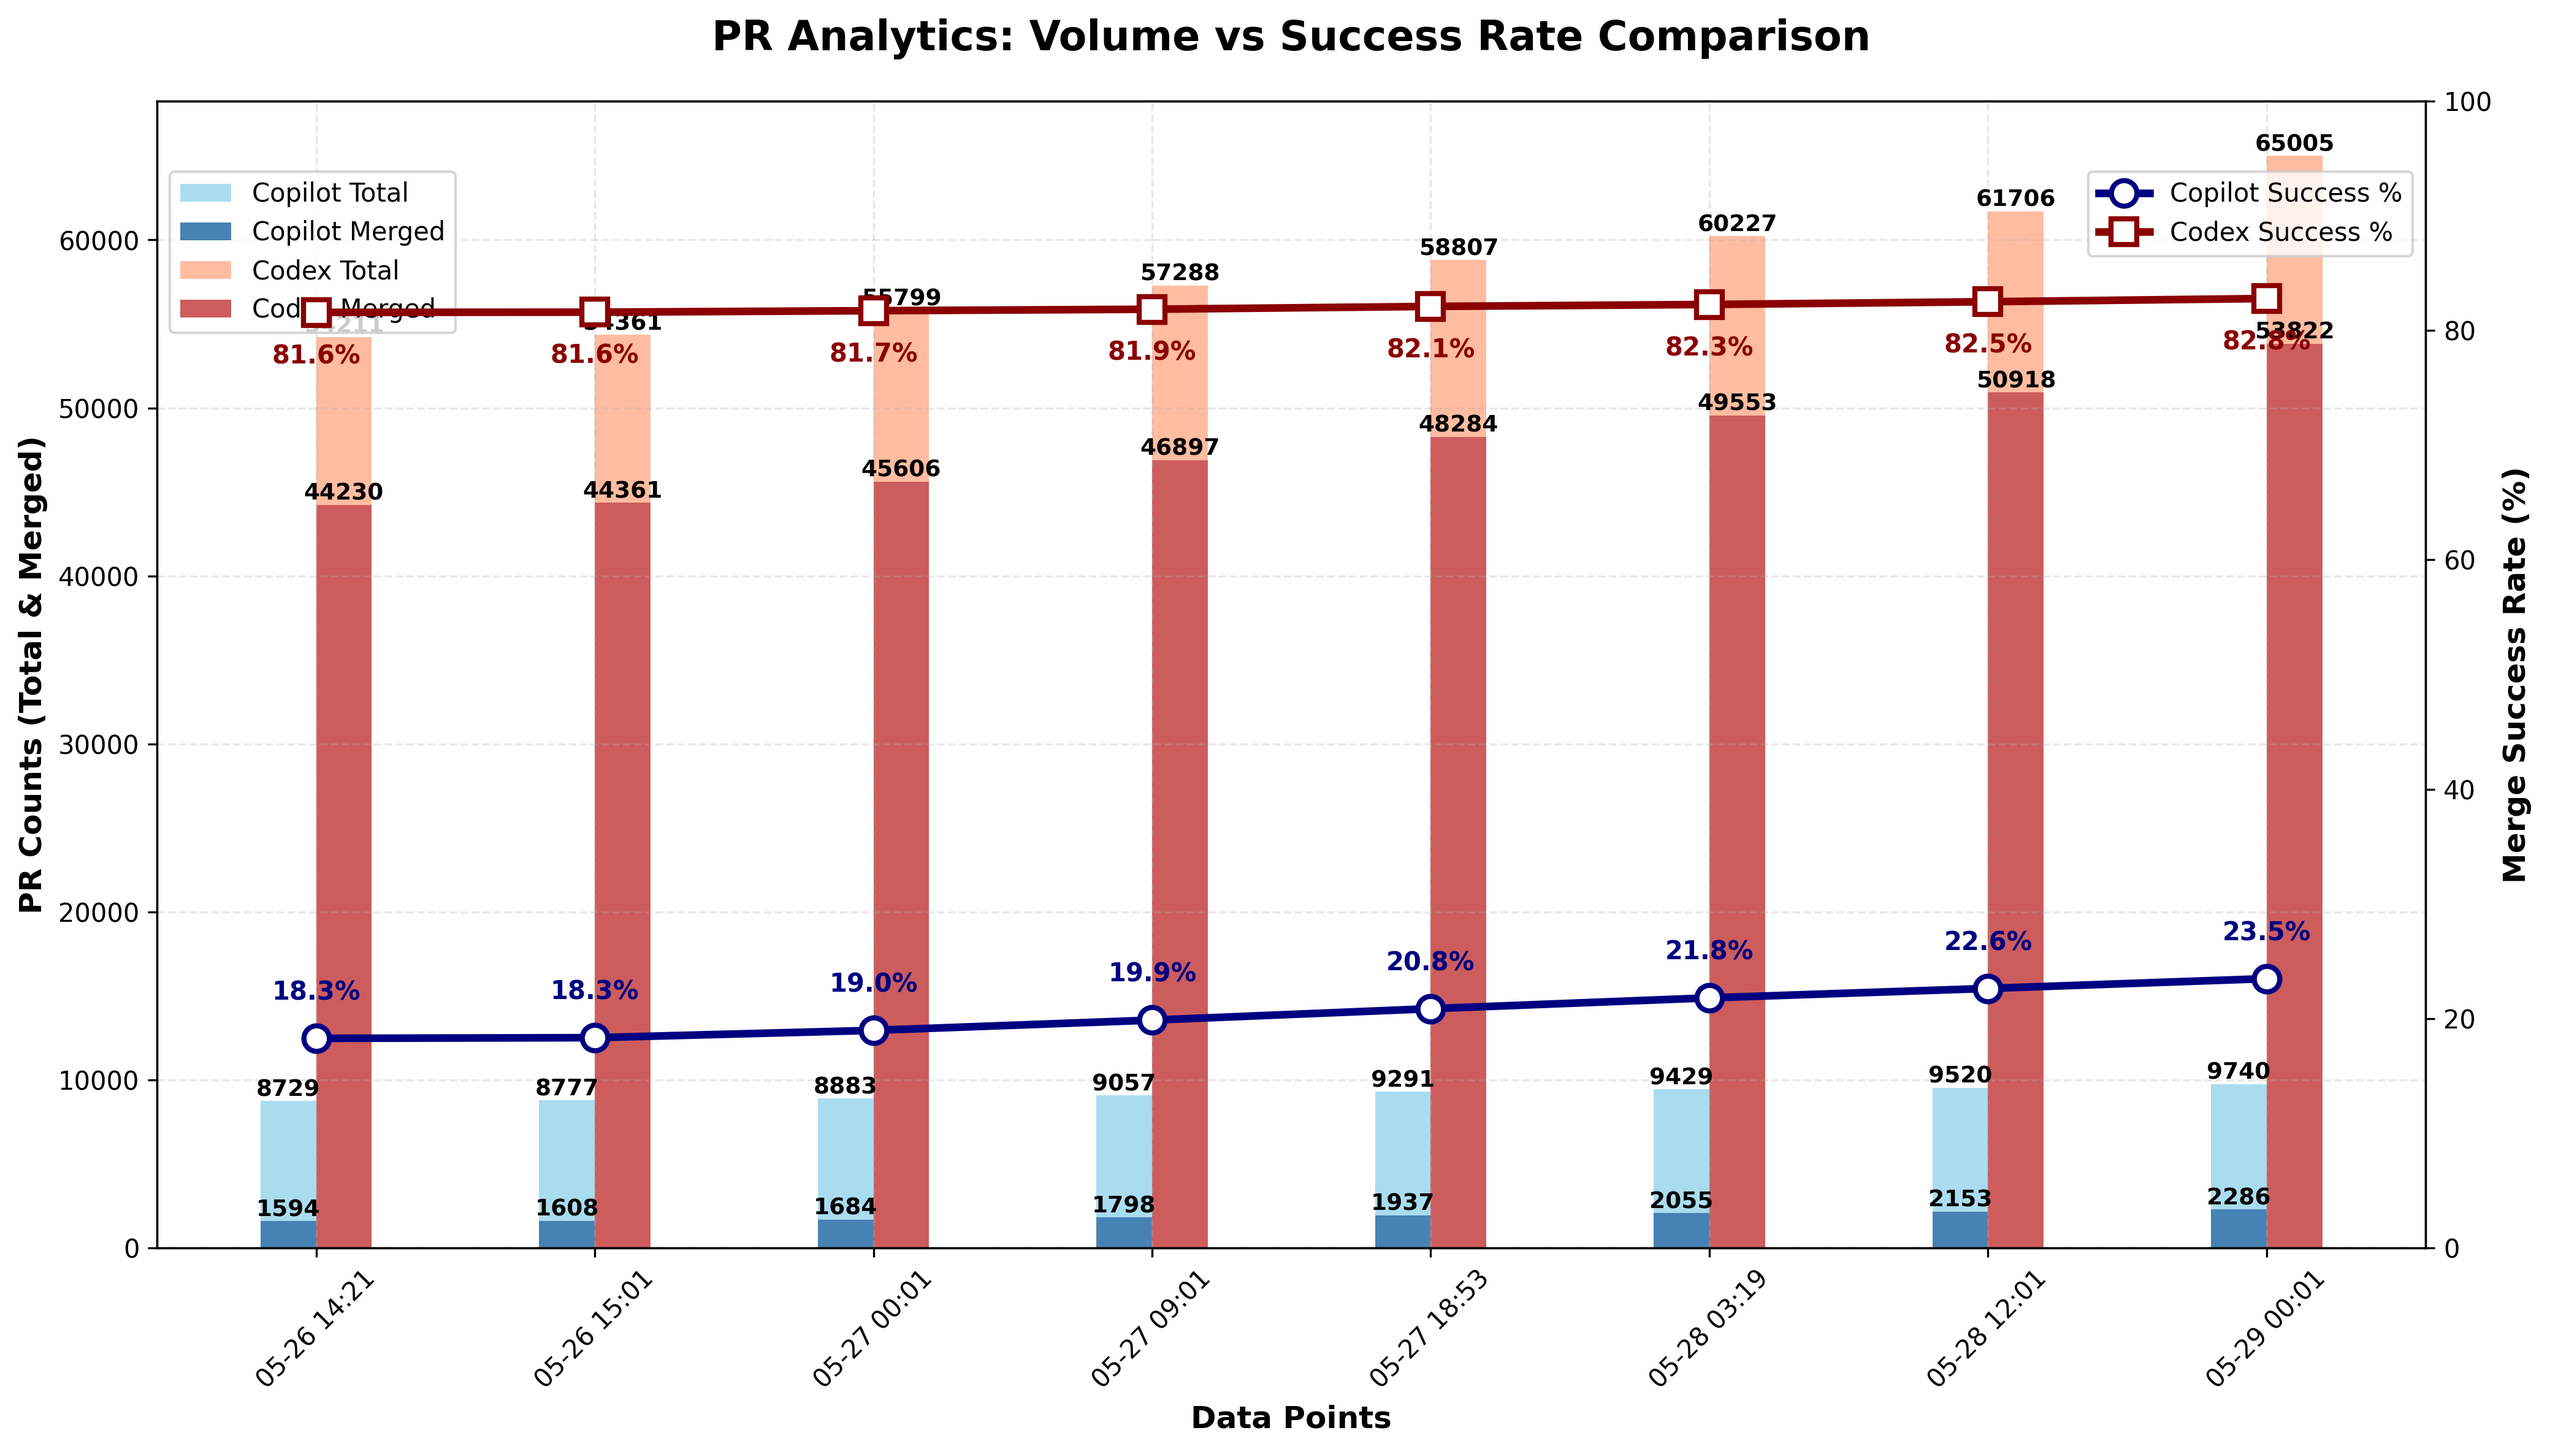
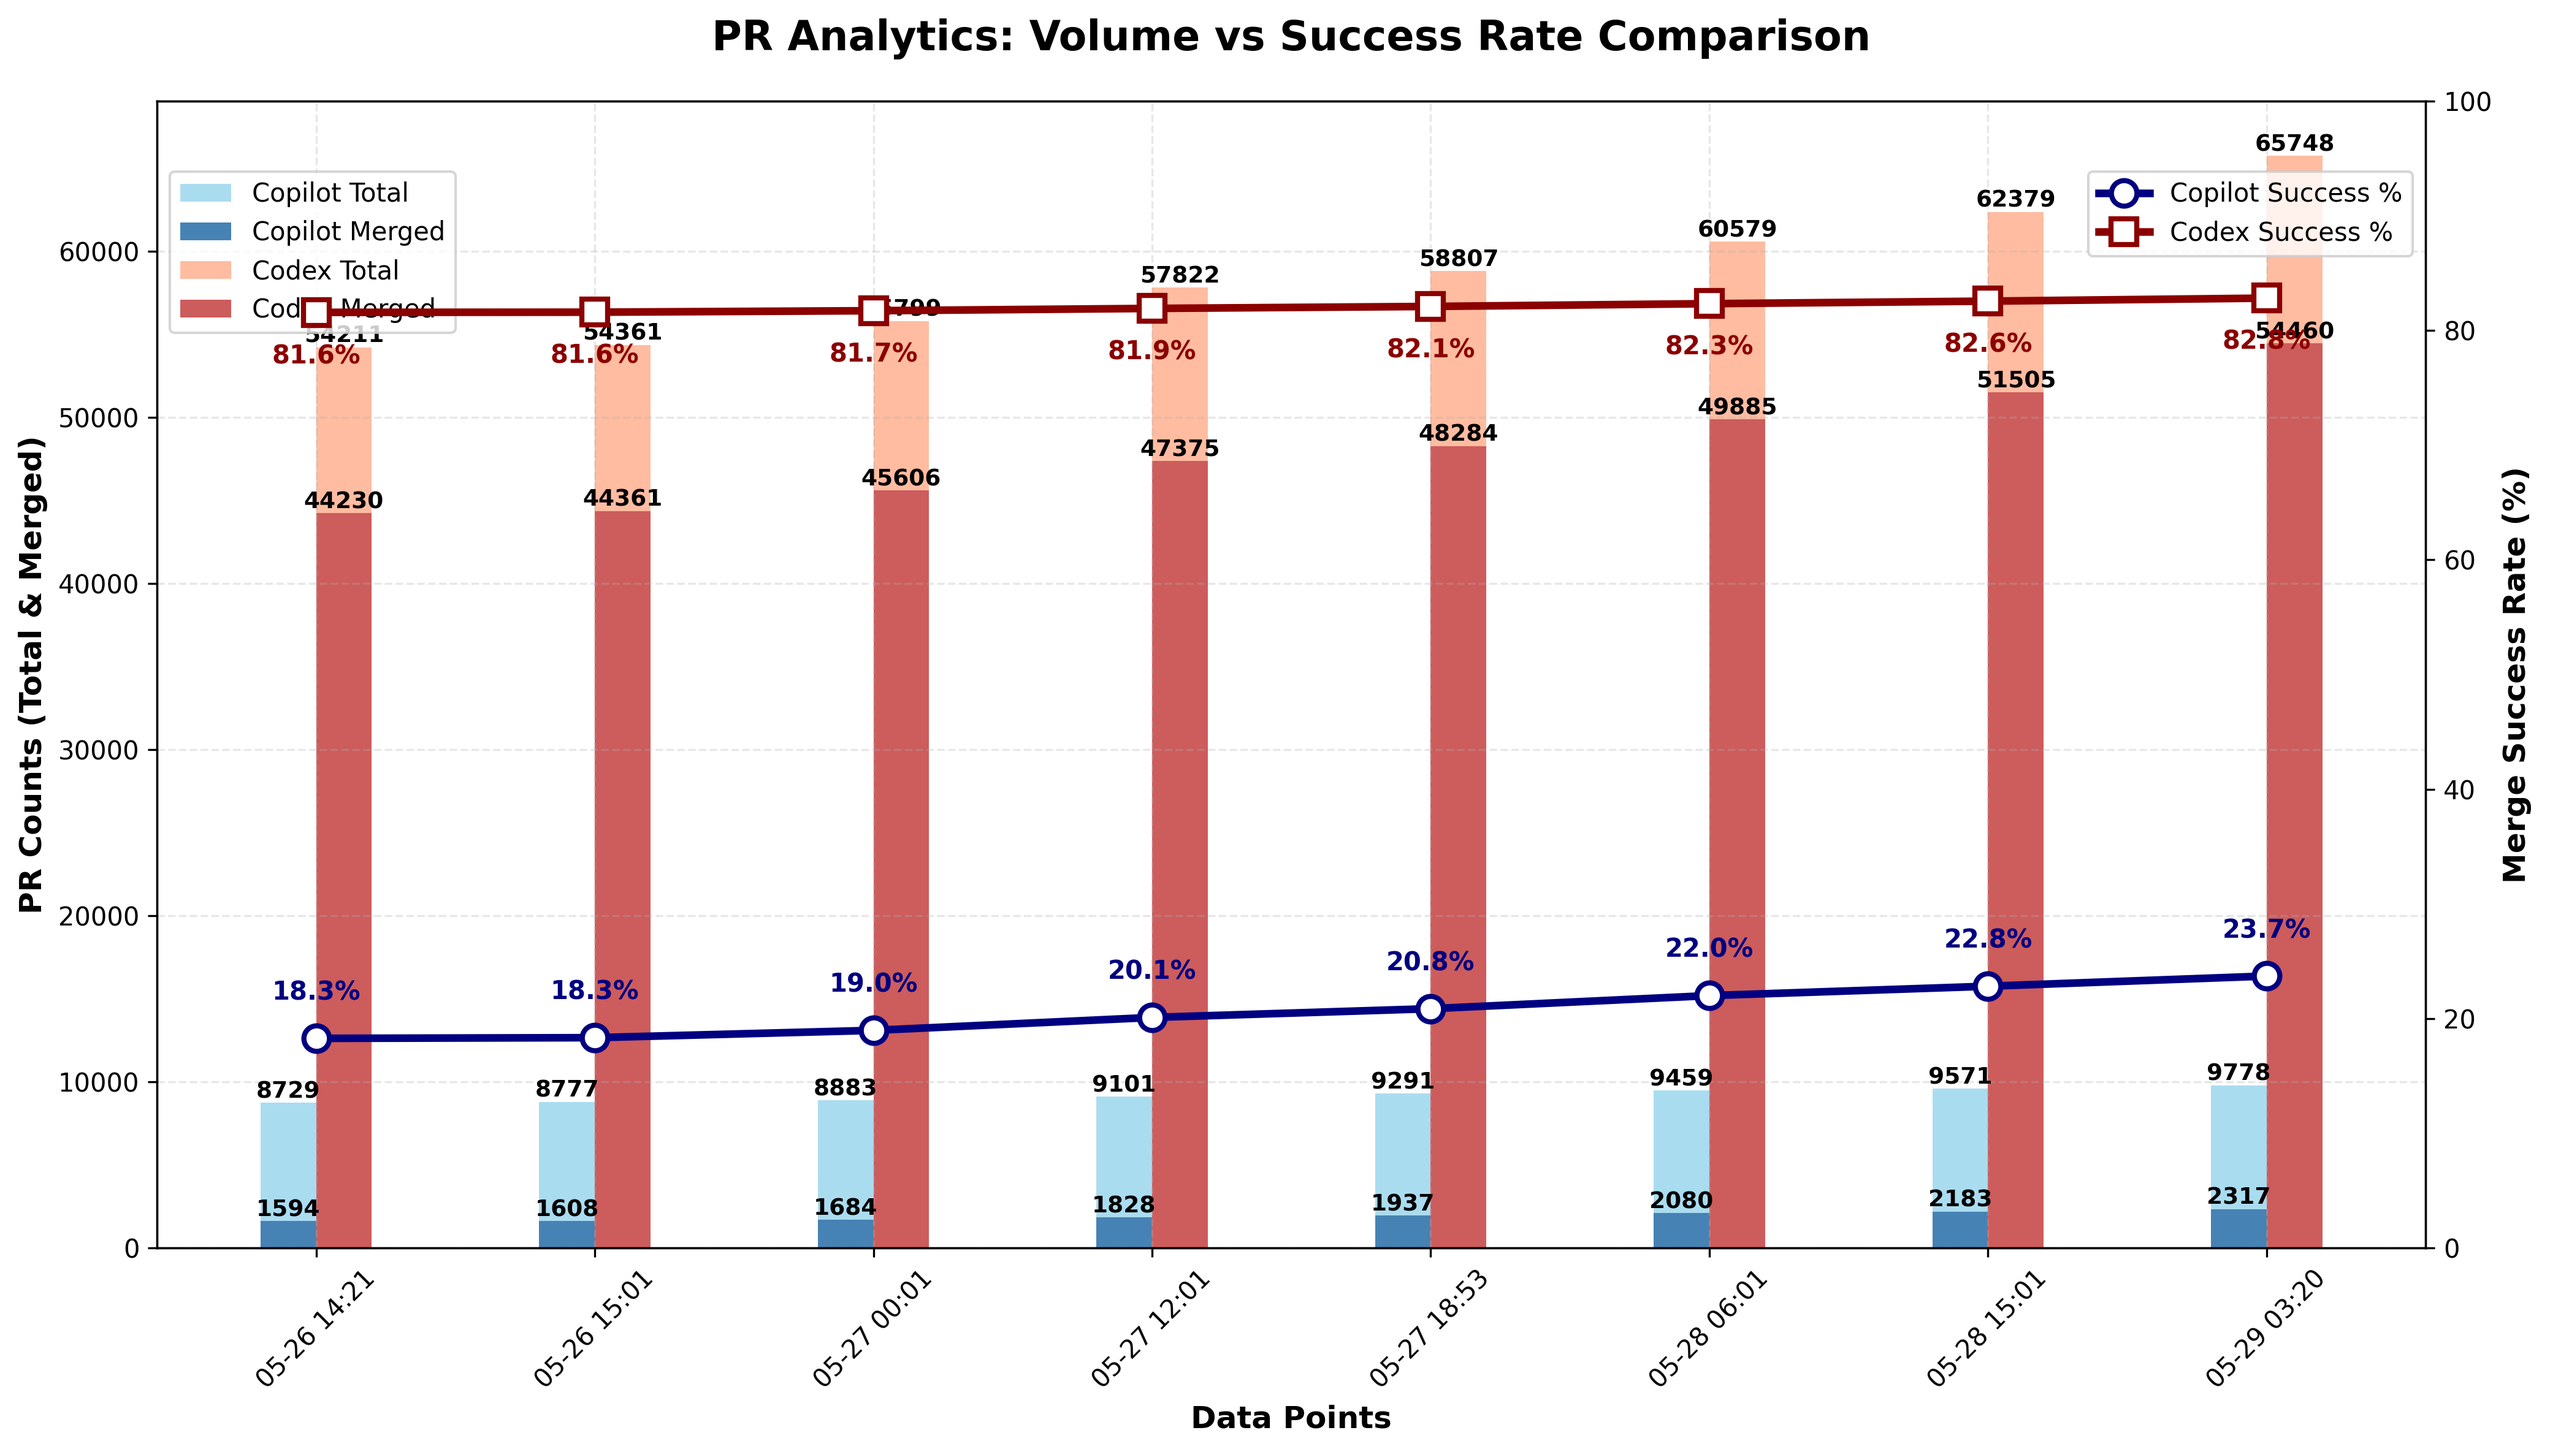
chore: update PR‑approval chart

diff --git a/docs/index.html b/docs/index.html
@@ -44,22 +44,22 @@
                 <tbody>
                     <tr>
                         <td>Copilot</td>
-                        <td>9,740</td>
-                        <td>2,286</td>
-                        <td>23.47%</td>
+                        <td>9,778</td>
+                        <td>2,317</td>
+                        <td>23.70%</td>
                     </tr>
                     <tr>
                         <td>Codex</td>
-                        <td>65,005</td>
-                        <td>53,822</td>
-                        <td>82.80%</td>
+                        <td>65,748</td>
+                        <td>54,460</td>
+                        <td>82.83%</td>
                     </tr>
                 </tbody>
             </table>
         </section>
 
         <footer>
-            <p>Last updated: <span id="last-updated">May 29, 2025 00:01 UTC</span></p>
+            <p>Last updated: <span id="last-updated">May 29, 2025 03:20 UTC</span></p>
             <p><a href="https://github.com/aavetis/ai-pr-watcher">View on GitHub</a></p>
         </footer>
     </div>

diff --git a/README.md b/README.md
@@ -19,5 +19,5 @@ Explore the GitHub search queries used:
 
 | Project | Total PRs | Merged PRs | Merge Rate |
 | ------- | --------- | ---------- | ---------- |
-| Copilot | 9,740 | 2,286 | 23.47% |
-| Codex   | 65,005 | 53,822 | 82.80% |
+| Copilot | 9,778 | 2,317 | 23.70% |
+| Codex   | 65,748 | 54,460 | 82.83% |
